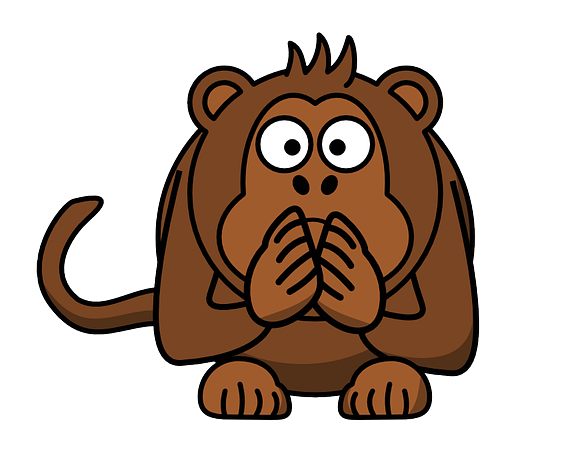
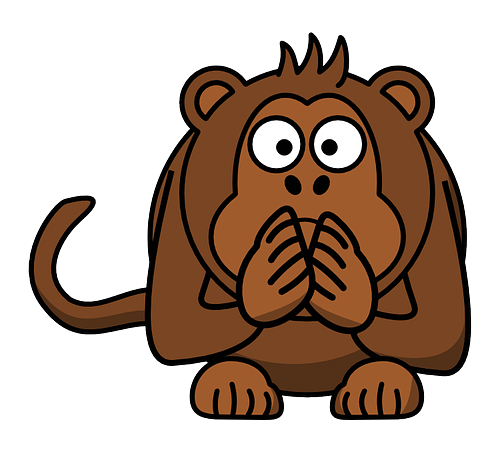
style: No content to display image

diff --git a/templates/opinions/opinion_list_content.html b/templates/opinions/opinion_list_content.html
@@ -20,7 +20,9 @@
         <div class="row mb-3">
             <div class="col-12 mt-2 d-flex justify-content-center">
                 <div class="card div__no-content-card">
-                    <img src="{% static 'img/no-speak-monkey-148893.png' %}" class="card-img-top" alt="speak no evil monkey image">
+                    <div class="text-center">
+                        <img src="{% static 'img/no-speak-monkey-148893.png' %}" class="card-img-top img__no-content" alt="speak no evil monkey image">
+                    </div>
                     <div class="card-body">
                         <h4 class="card-text text-center">No opinions found.</h4>
                     </div>

diff --git a/static/css/styles-opinion.css b/static/css/styles-opinion.css
@@ -1,6 +1,9 @@
 
 :root {
-    --margin-comment-level: 7px
+    --margin-comment-level: 7px;
+
+    --img-no-content-width: 500px;
+    --img-no-content-height: 450px;
 }
 
 
@@ -97,4 +100,19 @@
 .div__comment-list-padding {
     padding-right: calc(var(--bs-gutter-x)*.5);
     padding-left: calc(var(--bs-gutter-x)*.5);
+}
+
+.img__no-content {
+    width: calc(var(--img-no-content-width) / 4);
+    height: calc(var(--img-no-content-height) / 4);
+}
+
+
+/* tiny screens, 315px wide or less */
+@media screen and (max-width: 315px) {
+    .img__no-content {
+        width: calc(var(--img-no-content-width) / 6);
+        height: calc(var(--img-no-content-height) / 6);
+    }
+
 }
